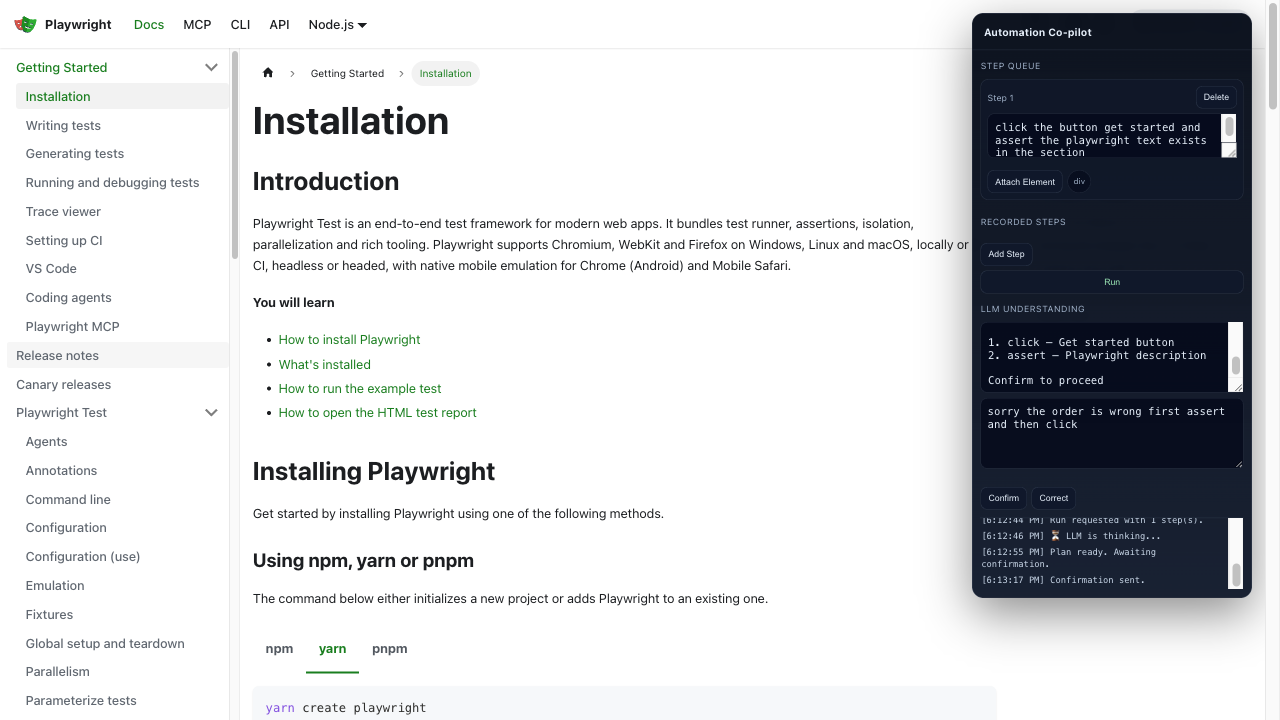
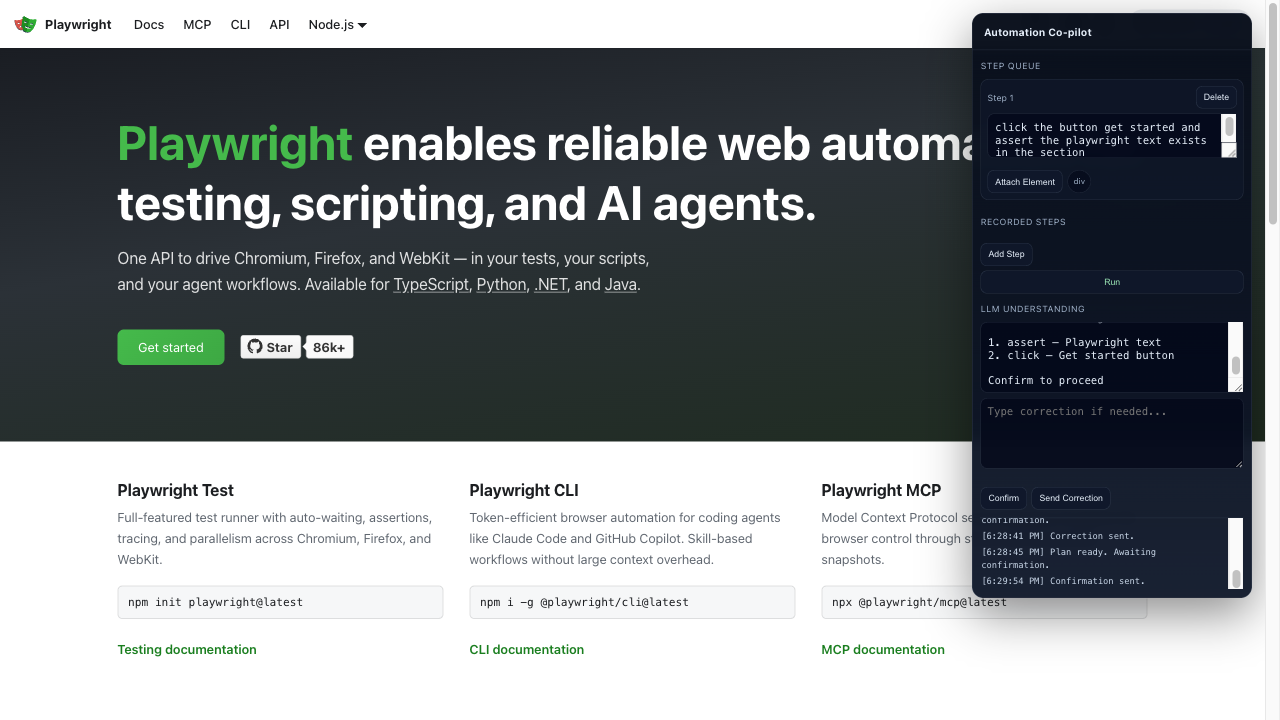
working Confirm button:   always sends confirmed
Send Correction button:
  validates correction text
  sends correction

diff --git a/browser.py b/browser.py
@@ -264,7 +264,7 @@ async def inject_panel(page: Page) -> None:
         <div class="ac-options"></div>
         <div class="ac-row">
           <button type="button" class="ac-confirm">Confirm</button>
-          <button type="button" class="ac-correct">Correct</button>
+          <button type="button" class="ac-correct">Send Correction</button>
         </div>
         <div class="ac-log"></div>
       </div>
@@ -469,7 +469,7 @@ async def inject_panel(page: Page) -> None:
           }}
           if (msg.instruction) parts.push("\\n" + msg.instruction);
           understandingEl.value = [
-            "Here is what I understood. Confirm if correct, or type a correction and click Correct.",
+            "Here is what I understood. Confirm if correct. If not, type correction and click Send Correction.",
             "",
             ...parts,
           ].join("\\n").trim();